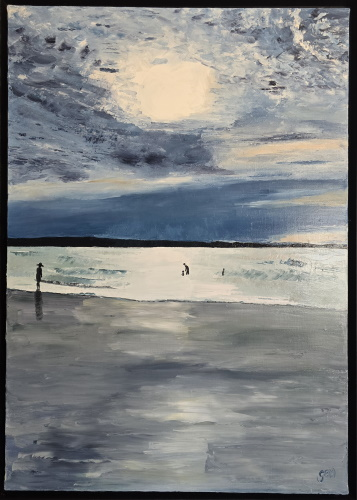
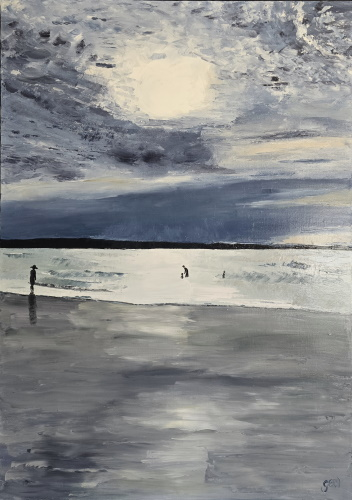
nouvelle version claire de soleil + certificat merite Luxembourg

diff --git a/htdocs/public/expositions.php b/htdocs/public/expositions.php
@@ -82,6 +82,12 @@ body, html {
 <ol>
      <h5 style="background-color:orange"><b>2024</b></h5>
    <ul>
+        <li><b>10ème édition annuelle du Luxembourg Art prize</b>
+		<p style="color:green;">CERTIFICAT DE MERITE ARTISTIQUE
+        <a href="images/web/2024-12_LuxembourgArtPrize.png">
+          <img src="images/web/2024-12_LuxembourgArtPrize_small.png" width="38"/><i>Certificat</i>
+	    </a>
+		</li>
 		<li><b>Exposition virtuelle internationale Arts & Sports 2024 - La maison des artistes</b>
 		  <br><a href="https://www.lamaisondesartistes.fr/site/musee-virtuel-arts-et-sports-2024-galerie/" alt="Arts & Sports 2024" />
 		  International virtual exhibition Arts & Sports 2024: Gallery</a></br>
